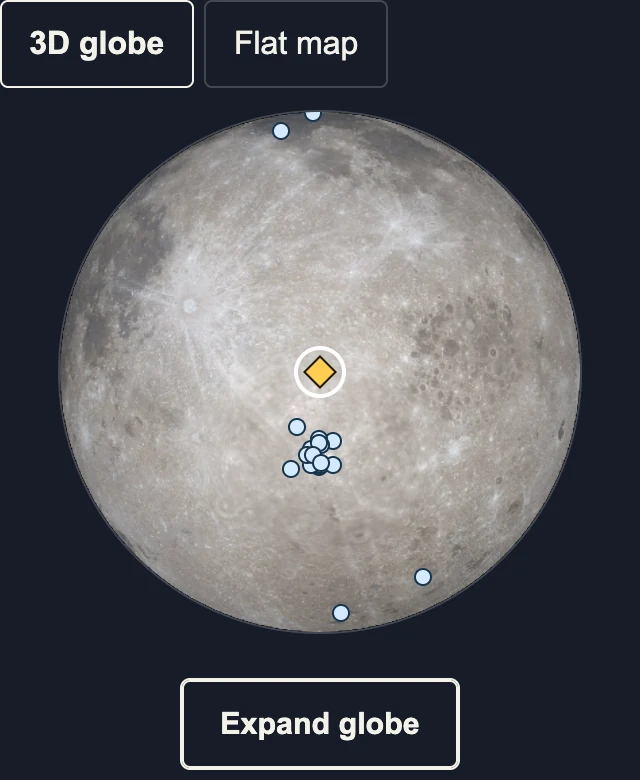
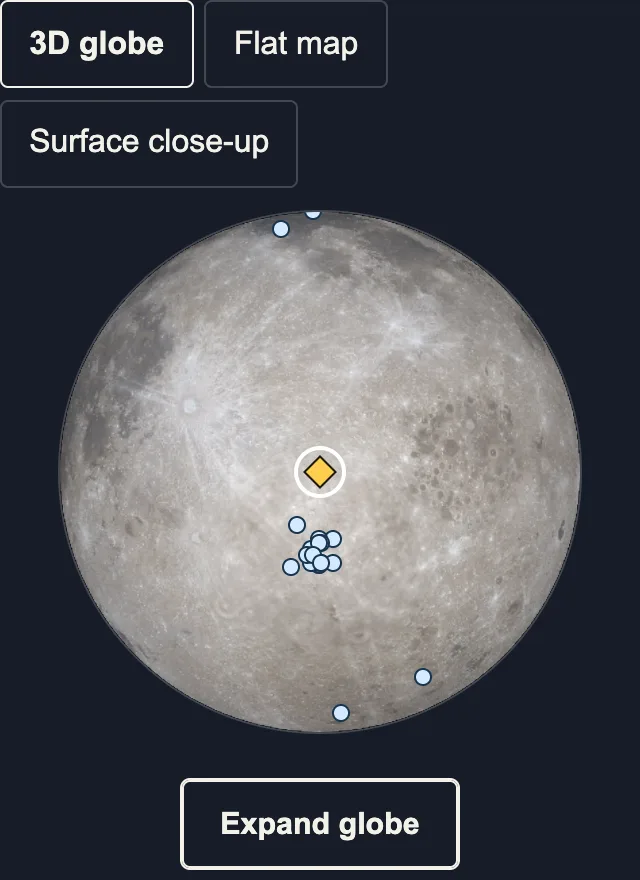
Inspect real lunar surface imagery and relief from either planner map

diff --git a/frontend/app/plan/site-map.tsx b/frontend/app/plan/site-map.tsx
@@ -1,6 +1,6 @@
-import { useState } from "react";
+import { useRef, useState } from "react";
 import dynamic from "next/dynamic";
-import { lrocSiteUrl, type MapPoint, type PairLocation } from "../../lib/globe-sites";
+import { lrocRegionalImageUrl, lrocSiteUrl, type MapPoint, type PairLocation } from "../../lib/globe-sites";
 import { useLanguage } from "../language";
 
 const MoonGlobe = dynamic(() => import("../moon-globe"));
@@ -12,6 +12,48 @@ function project(point: MapPoint) {
   return { x: ((point.longitude + 180) % 360) * 2, y: (90 - point.latitude) * 2 };
 }
 
+function RegionalImage({ url, name }: { url: string; name: string }) {
+  const { t } = useLanguage();
+  const [status, setStatus] = useState<"loading" | "ready" | "error">("loading");
+  if (status === "error") return <div>
+    <p role="status">{t("The surface image could not load.")}</p>
+    <button type="button" className="button outline" onClick={() => setStatus("loading")}>{t("Retry image")}</button>
+  </div>;
+  return <div className="plan-regional-image">
+    <img src={url} width={512} height={512} referrerPolicy="no-referrer"
+      alt={t("Lunar surface around {site}", {site: name})}
+      onLoad={() => setStatus("ready")} onError={() => setStatus("error")} />
+    {status === "ready" ? <span className="plan-regional-center" aria-hidden="true" /> :
+      <span className="plan-regional-loading" role="status">{t("Loading surface image…")}</span>}
+  </div>;
+}
+
+function SurfaceCloseUp({ point, name }: { point: MapPoint | null; name: string }) {
+  const { t } = useLanguage();
+  const [widthKm, setWidthKm] = useState(80);
+  const [relief, setRelief] = useState(false);
+  if (!point) return <p role="status">{t("Select a site with verified coordinates to view its surface.")}</p>;
+  const url = lrocRegionalImageUrl(point, widthKm, relief);
+  return <figure className="plan-regional-view">
+    <div className="plan-map-modes" role="group" aria-label={t("Surface layer")}>
+      <button type="button" aria-pressed={!relief} onClick={() => setRelief(false)}>{t("Orbital image")}</button>
+      <button type="button" aria-pressed={relief} onClick={() => setRelief(true)}>{t("Terrain relief")}</button>
+    </div>
+    <RegionalImage key={url} url={url} name={name} />
+    <figcaption>
+      <strong>{name}</strong>
+      <div className="plan-map-zoom">
+        <button type="button" aria-label={t("Zoom out")} disabled={widthKm === 160} onClick={() => setWidthKm(widthKm * 2)}>−</button>
+        <output>{t("{km} km across", {km: widthKm})}</output>
+        <button type="button" aria-label={t("Zoom in")} disabled={widthKm === 40} onClick={() => setWidthKm(widthKm / 2)}>+</button>
+      </div>
+      <p>{t(relief ? "Color shows elevation. Shading shows the shape of the terrain under fixed lighting." :
+        "Some crater floors appear dark in this mosaic. Switch to terrain relief to see their shape.")} {t("The ring marks the selected coordinates.")}</p>
+      <a href="https://www.lroc.im-ldi.com/about/terms" target="_blank" rel="noreferrer">NASA/GSFC/Arizona State University</a>
+    </figcaption>
+  </figure>;
+}
+
 export default function SiteMap({ sites, leaders, column, criterion, initialSite, detailHref }: {
   sites: MapSite[]; leaders: string[]; column: number; criterion: string; initialSite: string | null;
   detailHref: (siteId: string) => string | undefined;
@@ -19,7 +61,9 @@ export default function SiteMap({ sites, leaders, column, criterion, initialSite
   const { t } = useLanguage();
   const [selectedId, setSelectedId] = useState(initialSite);
   const [zoom, setZoom] = useState(1);
-  const [globe, setGlobe] = useState(true);
+  const [view, setView] = useState<"globe" | "flat" | "surface">("globe");
+  const [customPoint, setCustomPoint] = useState<MapPoint | null>(null);
+  const surfaceButton = useRef<HTMLButtonElement>(null);
   const [imageFailed, setImageFailed] = useState(false);
   const isLeader = (site: MapSite) => leaders.includes(site.id) && (site.hours?.[column] ?? 0) > 0;
   const selected = sites.find(site => site.id === selectedId) ?? sites.find(isLeader) ?? sites[0];
@@ -30,7 +74,15 @@ export default function SiteMap({ sites, leaders, column, criterion, initialSite
   const width = 720 / zoom, height = 360 / zoom;
   const left = Math.max(0, Math.min(720 - width, focus.x - width / 2));
   const top = Math.max(0, Math.min(360 - height, focus.y - height / 2));
+  function inspectPoint(location: MapPoint) {
+    const sameSite = point && Math.abs(location.latitude - point.latitude) < 1e-8 &&
+      Math.abs(((location.longitude - point.longitude + 540) % 360) - 180) < 1e-8;
+    setCustomPoint(sameSite ? null : location);
+    setView("surface");
+    surfaceButton.current?.focus({preventScroll: true});
+  }
   function select(site: MapSite) {
+    setCustomPoint(null);
     setSelectedId(site.id);
     if (!("point" in site.location)) setZoom(1);
   }
@@ -42,15 +94,27 @@ export default function SiteMap({ sites, leaders, column, criterion, initialSite
     <div className="plan-map-layout">
       <div>
         {mapped.length > 0 && <div className="plan-map-modes" role="group" aria-label={t("Map view")}>
-          <button type="button" aria-pressed={globe} onClick={() => setGlobe(true)}>{t("3D globe")}</button>
-          <button type="button" aria-pressed={!globe} onClick={() => setGlobe(false)}>{t("Flat map")}</button>
+          <button type="button" aria-pressed={view === "globe"} onClick={() => setView("globe")}>{t("3D globe")}</button>
+          <button type="button" aria-pressed={view === "flat"} onClick={() => setView("flat")}>{t("Flat map")}</button>
+          <button type="button" ref={surfaceButton} aria-pressed={view === "surface"} disabled={!point && !customPoint}
+            onClick={() => { setCustomPoint(null); setView("surface"); }}>{t("Surface close-up")}</button>
         </div>}
-        {globe && mapped.length > 0 ? <MoonGlobe pairSites={sites} terrainView={{
-          siteId: selected.id, onSelect: setSelectedId, plannerLeaders: sites.filter(isLeader).map(site => site.id),
+        {view === "surface" ? <SurfaceCloseUp point={customPoint ?? point} name={customPoint
+          ? t("Map location · {lat}° latitude, {lon}° east longitude", {
+            lat: Number(customPoint.latitude.toFixed(3)), lon: Number(((customPoint.longitude + 360) % 360).toFixed(3)),
+          }) : selected.name} /> :
+          view === "globe" && mapped.length > 0 ? <MoonGlobe pairSites={sites} terrainView={{
+          siteId: selected.id, onSelect: setSelectedId, onCloseUp: inspectPoint, plannerLeaders: sites.filter(isLeader).map(site => site.id),
         }} /> : imageFailed ? <p role="status">{t("The map image could not load. Select a site to see its coordinates.")}</p> :
           <svg className="plan-map-surface" viewBox={`${left} ${top} ${width} ${height}`} role="group" aria-labelledby="plan-site-map-title">
-            <image width="720" height="360" href="/images/lroc-color-2k.jpg" onError={() => setImageFailed(true)} />
-            <path d="M0 180H720 M360 0V360" stroke="white" opacity=".3" fill="none" strokeDasharray="3 5" vectorEffect="non-scaling-stroke" />
+            <image width="720" height="360" href="/images/lroc-color-2k.jpg" onError={() => setImageFailed(true)}
+              onClick={event => {
+                const matrix = event.currentTarget.getScreenCTM();
+                if (!matrix) return;
+                const p = new DOMPoint(event.clientX, event.clientY).matrixTransform(matrix.inverse());
+                inspectPoint({ longitude: p.x / 2 - 180, latitude: 90 - p.y / 2 });
+              }} />
+            <path pointerEvents="none" d="M0 180H720 M360 0V360" stroke="white" opacity=".3" fill="none" strokeDasharray="3 5" vectorEffect="non-scaling-stroke" />
             {ordered.map(site => {
               if (!("point" in site.location)) return null;
               const { x, y } = project(site.location.point);
@@ -67,8 +131,9 @@ export default function SiteMap({ sites, leaders, column, criterion, initialSite
             })}
             {point && <circle cx={focus.x} cy={focus.y} r={12 / zoom} fill="none" stroke="white" strokeWidth="1.5" vectorEffect="non-scaling-stroke" pointerEvents="none" />}
           </svg>}
+        {view === "flat" && !imageFailed && mapped.length > 0 && <p>{t("Tap the map for a close-up, or choose a site and open Surface close-up.")}</p>}
         {mapped.length < sites.length && <p>{t("Verified map positions: {mapped} of {count}.", {mapped: mapped.length, count: sites.length})}</p>}
-        <div className="map-legend"><span><b aria-hidden="true">◆</b> {t("Top for this window")}</span><span><b aria-hidden="true">●</b> {t("Other sites")}</span></div>
+        {view !== "surface" && <div className="map-legend"><span><b aria-hidden="true">◆</b> {t("Top for this window")}</span><span><b aria-hidden="true">●</b> {t("Other sites")}</span></div>}
       </div>
       <div className="plan-map-inspector">
         <label className="field">{t("Inspect a site")}<select value={selected.id} onChange={event => {
@@ -84,7 +149,7 @@ export default function SiteMap({ sites, leaders, column, criterion, initialSite
         </div>
         {details && <a href={details}>{t("Site details")}</a>}
         {point && <>
-          {!imageFailed && !globe && <div className="plan-map-zoom">
+          {!imageFailed && view === "flat" && <div className="plan-map-zoom">
             <button type="button" aria-label={t("Zoom out")} disabled={zoom === 1} onClick={() => setZoom(zoom / 2)}>−</button>
             <span>{zoom}×</span>
             <button type="button" aria-label={t("Zoom in")} disabled={zoom === 8} onClick={() => setZoom(zoom * 2)}>+</button>

diff --git a/frontend/app/moon-globe.tsx b/frontend/app/moon-globe.tsx
@@ -29,7 +29,7 @@ type GlobeProps = {
   evidence?: Dataset["evidence"];
   savedResult?: string;
   pairSites?: readonly PairLocation[];
-  terrainView?: { siteId: string; onSelect: (id: string) => void; plannerLeaders?: readonly string[] };
+  terrainView?: { siteId: string; onSelect: (id: string) => void; plannerLeaders?: readonly string[]; onCloseUp?: (point: MapPoint) => void };
   showSky?: (alternative: boolean) => void;
 };
 
@@ -369,6 +369,11 @@ export default function MoonGlobe({ home = false, orbit, primary, alternative, e
     expandButton.current?.focus({ preventScroll: true });
   }
 
+  const closeUpButton = terrainView?.onCloseUp && <button type="button" className="button outline" onClick={() => {
+    if (expanded) collapseGlobe();
+    terrainView.onCloseUp?.(center);
+  }}>{t("Close-up at map center")}</button>;
+
   return <figure className={terrainView && !plannerLeaders ? "lunar-figure grid items-center gap-6 py-6 md:grid-cols-2" : "lunar-figure"}
     id={plannerLeaders ? "planner-lunar-globe" : terrainView ? "terrain-lunar-reference" : pairSites ? "pair-lunar-reference" : "lunar-reference"} tabIndex={-1}>
     {home ? frame : <div className="globe-view-slot">
@@ -385,6 +390,7 @@ export default function MoonGlobe({ home = false, orbit, primary, alternative, e
             <output>{zoom}×</output>
             <button type="button" aria-label={t("Zoom in")} disabled={zoom === 4} onClick={() => setZoom(value => clampZoom(value * 2))}>+</button>
           </div>
+          {closeUpButton}
           <p id={zoomHelpId + "-expanded"}>{t("Tap a location to center it. Drag to rotate, or scroll or pinch over a location to zoom.")}</p>
         </div>
       </dialog>
@@ -426,6 +432,7 @@ export default function MoonGlobe({ home = false, orbit, primary, alternative, e
         </div>}
       </div>}
       {ready && <p id={zoomHelpId}>{t(home ? "Scroll or pinch to zoom the reference map (1–4×). With the globe focused, use + or − to zoom." : "Tap a location to center it. Drag to rotate, or scroll or pinch over a location to zoom.")}</p>}
+      {ready && closeUpButton}
       {ready && <p className="globe-center">{t("View center")} · {coordinates(center)} · {zoom}×</p>}
       <p role="status">{failed ? t("Globe unavailable. The photograph is shown. Try again to reload the map.") : enabled && !ready ? t("Loading lunar surface map…") :
         ready && announced ? <span className="sr-only">{t("View center")} · {coordinates(announced)}</span> : ""}</p>

diff --git a/frontend/app/plan/plan.css b/frontend/app/plan/plan.css
@@ -9,6 +9,20 @@
 .plan-main caption { text-align: start; font-weight: 600; }
 
 .plan-presets { display: flex; flex-wrap: wrap; align-items: baseline; gap: .35rem 1rem; margin: 1rem 0; }
+@media screen {
+  .request-fields.catalog-fields { display: grid; grid-template-columns: minmax(0, 1fr); gap: 1rem; align-items: start; }
+  .catalog-fields .field, .catalog-fields button { margin-bottom: 0; }
+  .catalog-fields .field input, .catalog-fields .field select { height: 46px; min-width: 0; }
+}
+@media screen and (min-width: 620px) {
+  .request-fields.catalog-fields { grid-template-columns: repeat(2, minmax(0, 1fr)); row-gap: .35rem; }
+  .catalog-fields .field { display: grid; grid-template-rows: subgrid; grid-row: span 3; }
+  .catalog-fields .field input, .catalog-fields .field select { margin-top: 0; }
+}
+@media screen and (min-width: 1000px) {
+  .request-fields.catalog-fields { grid-template-columns: repeat(4, minmax(0, 1fr)) auto; }
+  .catalog-fields button { grid-column: 5; grid-row: 2; }
+}
 .plan-source, .plan-presets { overflow-wrap: anywhere; }
 .plan-results table { min-width: 32rem; }
 .plan-main code { overflow-wrap: anywhere; }
@@ -31,7 +45,13 @@
 .plan-map-zoom button:disabled { opacity: .45; }
 @media (max-width: 700px) { .plan-map-layout { grid-template-columns: minmax(0, 1fr); gap: .75rem; } }
 
-.plan-map-modes { display: flex; gap: .35rem; margin-bottom: .75rem; }
+.plan-regional-view { max-width: 32rem; margin-inline: auto; }
+.plan-regional-image { position: relative; aspect-ratio: 1; background: var(--bg); }
+.plan-regional-image img { display: block; width: 100%; height: auto; }
+.plan-regional-center, .plan-regional-loading { position: absolute; left: 50%; top: 50%; transform: translate(-50%, -50%); }
+.plan-regional-center { width: 12px; height: 12px; border-radius: 50%; border: 2px solid white; box-shadow: 0 0 0 1px #111, inset 0 0 0 1px #111; }
+.plan-regional-view .plan-map-zoom { margin-block: .5rem; }
+.plan-map-modes { display: flex; flex-wrap: wrap; gap: .35rem; margin-bottom: .75rem; }
 .plan-map-modes button { min-height: 44px; padding: .3rem .85rem; border: 1px solid var(--line); border-radius: 4px; }
 .plan-map-modes button[aria-pressed="true"] { border-color: currentColor; font-weight: 650; }
 #planner-lunar-globe .site-pin { width: 0; height: 0; border: 0; }

diff --git a/frontend/lib/i18n.ts b/frontend/lib/i18n.ts
@@ -269,6 +269,22 @@ export const vietnamese: Record<string, string> = {
   "Pause sky and astronaut motion": "Tạm dừng chuyển động của nền trời và phi hành gia",
   "University and school": "Trường và viện",
   "School of Aerospace Engineering on Facebook": "Facebook của Viện Công nghệ Hàng không Vũ trụ",
+  "Close-up at map center": "Xem cận cảnh vùng giữa bản đồ",
+  "Map location · {lat}° latitude, {lon}° east longitude": "Vị trí trên bản đồ · vĩ độ {lat}°, kinh độ đông {lon}°",
+  "Tap the map for a close-up, or choose a site and open Surface close-up.": "Chạm lên bản đồ để xem cận cảnh vùng đó. Bạn cũng có thể chọn địa điểm rồi bấm Ảnh cận cảnh.",
+  "Surface close-up": "Ảnh cận cảnh",
+  "Lunar surface around {site}": "Bề mặt Mặt Trăng quanh {site}",
+  "Loading surface image…": "Đang tải ảnh bề mặt…",
+  "The surface image could not load.": "Chưa tải được ảnh bề mặt.",
+  "Retry image": "Tải lại ảnh",
+  "{km} km across": "Ảnh rộng {km} km",
+  "Surface layer": "Chọn ảnh bề mặt",
+  "Orbital image": "Ảnh chụp từ quỹ đạo",
+  "Terrain relief": "Địa hình",
+  "Some crater floors appear dark in this mosaic. Switch to terrain relief to see their shape.": "Một số đáy hố hiện rất tối trong ảnh ghép. Chọn Địa hình để thấy hình dạng của chúng.",
+  "Color shows elevation. Shading shows the shape of the terrain under fixed lighting.": "Màu thể hiện độ cao. Ánh sáng minh họa chiếu từ một hướng cố định để làm rõ hình dạng địa hình.",
+  "The ring marks the selected coordinates.": "Vòng tròn đánh dấu tọa độ đã chọn.",
+  "Select a site with verified coordinates to view its surface.": "Chọn địa điểm đã có tọa độ xác minh để xem ảnh bề mặt.",
   "View this site in LROC imagery ↗": "Xem ảnh LROC tại địa điểm này ↗",
   "School of Aerospace Engineering": "Viện Công nghệ Hàng không Vũ trụ",
   "VNU University of Engineering and Technology": "Trường Đại học Công nghệ, ĐHQGHN",

diff --git a/frontend/lib/globe-sites.ts b/frontend/lib/globe-sites.ts
@@ -7,6 +7,17 @@ export function lrocSiteUrl(point: MapPoint) {
   return `https://data.lroc.im-ldi.com/lroc/?projection=ORTHO&c_lon=${point.longitude}&c_lat=${point.latitude}&x=0&y=0&resolution=73.05454999604635&layers=LUNA_WAC_GLOBAL`;
 }
 
+// Lunaserv orthographic coordinates are lunar metres about the selected longitude and latitude.
+export function lrocRegionalImageUrl(point: MapPoint, widthKm: number, relief: boolean) {
+  const radius = widthKm * 500;
+  const params = new URLSearchParams({
+    SERVICE: "WMS", VERSION: "1.1.1", REQUEST: "GetMap", LAYERS: relief ? "luna_wac_dtm" : "luna_wac_global", STYLES: "",
+    FORMAT: "image/png", TRANSPARENT: "true", SRS: `IAU2000:30166,9001,${point.longitude},${point.latitude}`,
+    BBOX: [-radius, -radius, radius, radius].join(","), WIDTH: "512", HEIGHT: "512",
+  });
+  return `https://wms.im-ldi.com/?${params}`;
+}
+
 type TerrainCoordinates = { id: string; lat_deg: number | null; lon_deg: number | null };
 export type PairLocation = { id: string; name: string; reported?: MapPoint; location: { point: MapPoint } | { reason: string } };
 

diff --git a/frontend/app/plan/page.tsx b/frontend/app/plan/page.tsx
@@ -116,7 +116,7 @@ function CatalogSearch({ run, first, last, priority, source, initialSite, runIds
   }
   return <section aria-labelledby="catalog-question">
     <h2 id="catalog-question">{t("Which site fits my dates?")}</h2>
-    <form className="request-fields print:hidden" onChange={clear} onSubmit={async e => {
+    <form className="request-fields catalog-fields print:hidden" onChange={clear} onSubmit={async e => {
       e.preventDefault();
       if (pending || wait) return;
       const form = new FormData(e.currentTarget);

diff --git a/frontend/app/page.tsx b/frontend/app/page.tsx
@@ -87,7 +87,7 @@ export default function Home() {
               <strong>{t(title)}</strong>
               <p>{t(instruction)}</p>
               <img src={`/images/guide/plan-step-${index + 1}-${locale}.webp`} width={640}
-                height={(locale === "vi" ? [594, 340, 780] : [510, 340, 780])[index]} alt="" loading="lazy" />
+                height={(locale === "vi" ? [594, 340, 880] : [510, 340, 880])[index]} alt="" loading="lazy" />
             </li>)}
           </ol>
         </details>

diff --git a/docs/FRONTEND_VERIFICATION.md b/docs/FRONTEND_VERIFICATION.md
@@ -392,3 +392,7 @@ In a separate Safari 26.6.2 WebDriver window, the comparison accepted a real B2 
 The local sky site's long native option label made the page scroll horizontally on narrow windows. At the smallest tested local window, the same page went from 35 px of overflow in English and 23 px in Vietnamese to zero. The picker received keyboard focus and retained all three complete option labels. Safari clamped the outer window at 336 px. Its measured document viewport depended on site zoom, so the run does not establish a native 320 CSS px result. The public deployment also measured zero overflow in all six readings with loaded styles, including document widths of 883, 438 and 375 CSS px. An earlier measurement at 883 showed overflow before stylesheet readiness was recorded. Its cause remains unverified.
 
 The [imported astronaut planning regression](../qa/check_guide_imported_planning.mjs) checks source selection, both languages, date and site questions, and requests outside the file after a producer failure. In a separate browser replay, importing the real Odysseus A2 aggregate followed by B2 produced 42 then 47 joint hours without further API or model requests. [Producer evidence](BACKEND_RECONCILIATION.md#planning-from-an-imported-run)
+
+### Planner surface close-up and date fields
+
+The planner requests a 512-pixel orthographic Lunaserv image centered on the selected site's verified coordinates or the area chosen on either map. The 40, 80 and 160 km controls describe the projected image width. The WAC camera mosaic and elevation relief are historical surface references. Dark crater floors and polar seams can occur in the camera mosaic. The relief uses illustrative shading. Neither layer changes the site's ranking or UTC results. The close-up appears only on request and provides retry and a direct LROC viewer link. The [planner regression](../qa/check_planner_map.mjs) covers image failure and recovery, selected and arbitrary positions, layer/scale changes and four equally sized date-search fields. Manual source checks decoded camera imagery at all 23 saved B2 coordinates and inspected colored relief at Haworth, Shackleton, Vikram and Chang’e-4.

diff --git a/docs/CREDITS.md b/docs/CREDITS.md
@@ -80,3 +80,5 @@ NASA's 8192 × 4096 linear OpenEXR has SHA-256 `dc6c4f413e85707a29a25a9451148154
 The homepage walkthrough uses team-created screenshots of the Moon Plan B interface in English and Vietnamese, captured from the saved B2 planner for November 14–21, 2026 UTC. The first two images use numbered callouts. The third shows the selected gold diamond on the default 3D planner globe, using the credited [NASA CGI Moon Kit](https://svs.gsfc.nasa.gov/4720/) map. Codex assisted capture, cropping and WebP encoding.
 
 The orbit walkthrough uses the existing NASA SVS texture and Horizons directions, B2 weekly visibility, two producer terrain horizons and four UTC observations. The raw response URLs and SHA-256 digests are in [the sample archive](../frontend/lib/orbit-sky-samples.json). Codex assisted the walkthrough, rise/set display, extraction, EN/VI copy and tests. The drawn horizon is a data visualization; it is not a lunar photograph.
+
+The planner’s surface close-up requests single images from the LROC team's public Lunaserv WMS. The camera mosaic is [WAC Global](https://data.lroc.im-ldi.com/lroc/view_rdr/WAC_GLOBAL). The optional [color shaded relief](https://data.lroc.im-ldi.com/lroc/view_rdr/WAC_CSHADE) combines WAC stereo and LOLA elevation data. Image credit is NASA/GSFC/Arizona State University. The [LROC terms](https://www.lroc.im-ldi.com/about/terms) permit credited educational display. The images are served by LROC when the visitor opens this view. The team's code positions the reference ring and requests the chosen projected extent. The [Lunaserv service guide](https://lunaserv.im-ldi.com/getting_started_with_lunaserv_and_qgis.pdf) describes external map clients.

diff --git a/HANDOFF.md b/HANDOFF.md
@@ -1,6 +1,6 @@
 # Current handoff — 15 November 2026
 
-Sơn selected the 3D globe as the default planner map, with a flat-map toggle. Both share the inspector, site selection and ranking table. The inspector and table link to the selected site’s saved report or hourly live observations. Home links to Compare, Plan and the illustrated guide. Its three steps open by default. The [orbit presentation](qa/check_orbit.mjs) remains available at `/orbit`. Live guide answers, saved site reports and date presets [preserve the live run](qa/check_planner_run_links.mjs) on return. The [guide](frontend/tests/guide-planning.test.ts) asks for one mission length when visitors give a range. See [planner](qa/check_planner_map.mjs) and [home](qa/check_home_navigation.mjs).
+Sơn selected the 3D globe as the default planner map, with a flat-map toggle. A surface close-up uses LROC imagery or elevation relief at a site or chosen map position. The inspector and table link to the selected site’s saved report or hourly live observations. Home links to Compare, Plan and the illustrated guide. Its three steps open by default. The [orbit presentation](qa/check_orbit.mjs) remains available at `/orbit`. Live guide answers, saved site reports and date presets [preserve the live run](qa/check_planner_run_links.mjs) on return. The [guide](frontend/tests/guide-planning.test.ts) asks for one mission length when visitors give a range. See [planner](qa/check_planner_map.mjs) and [home](qa/check_home_navigation.mjs).
 
 ## Live comparison
 
